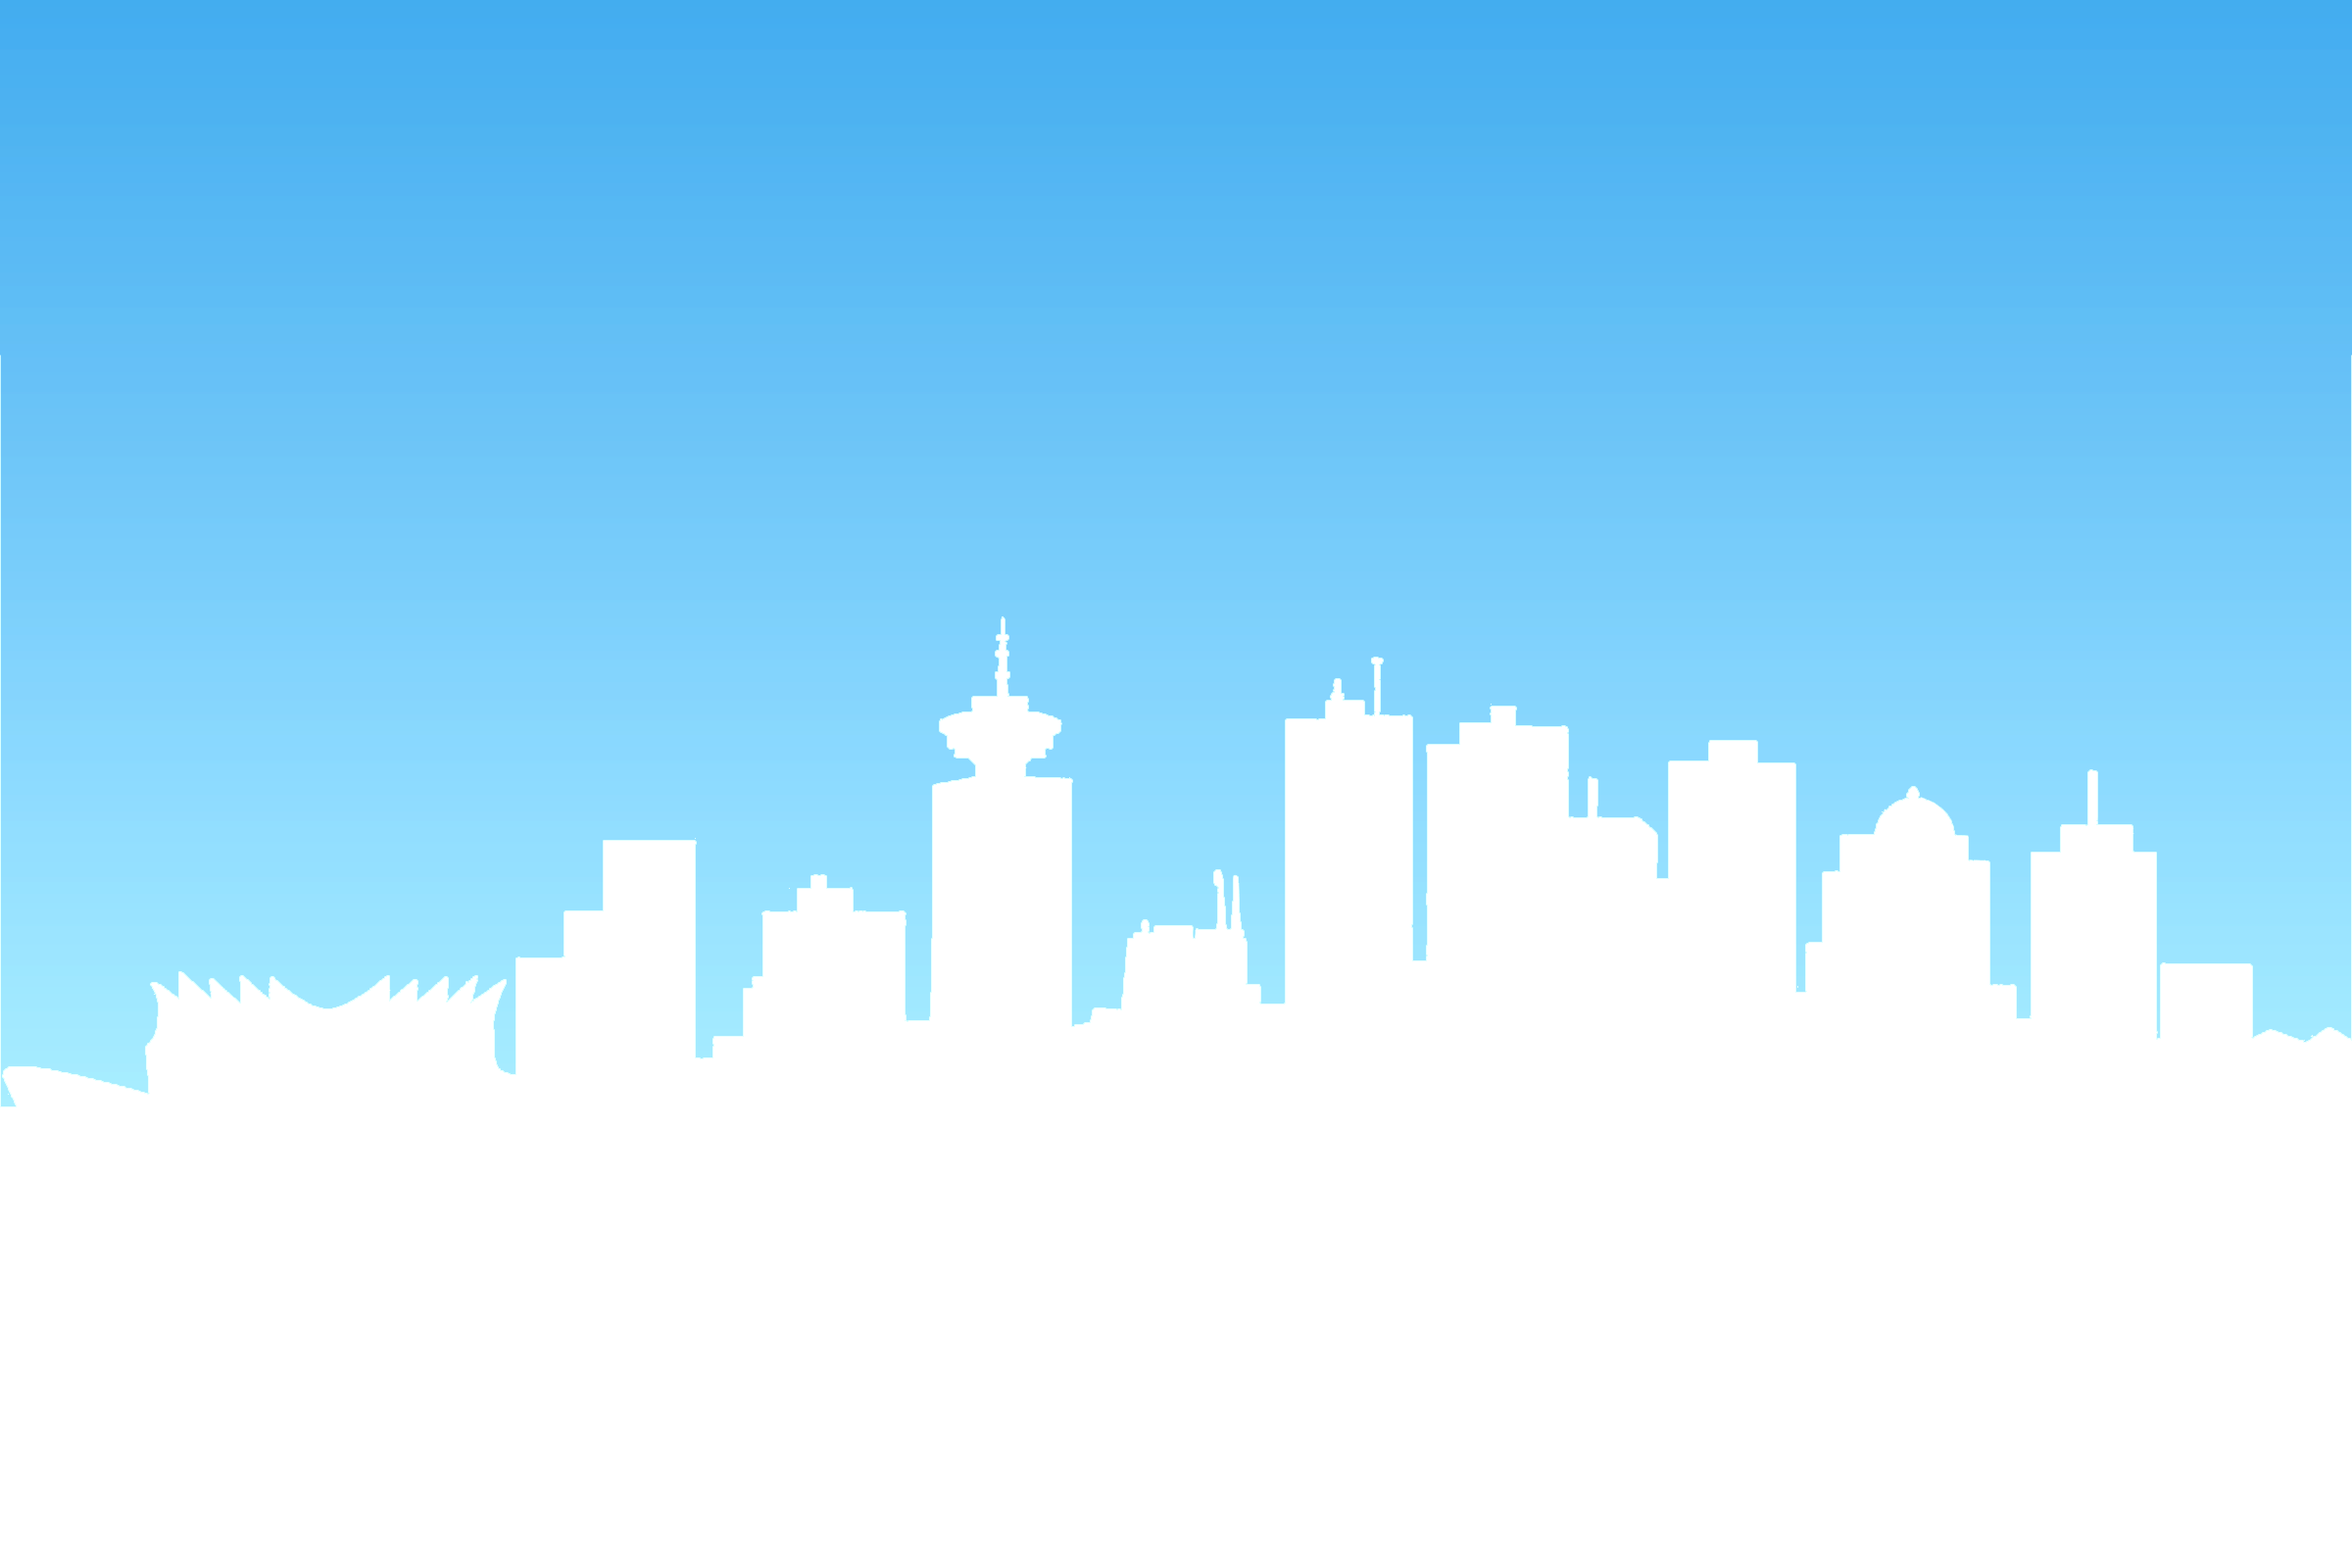
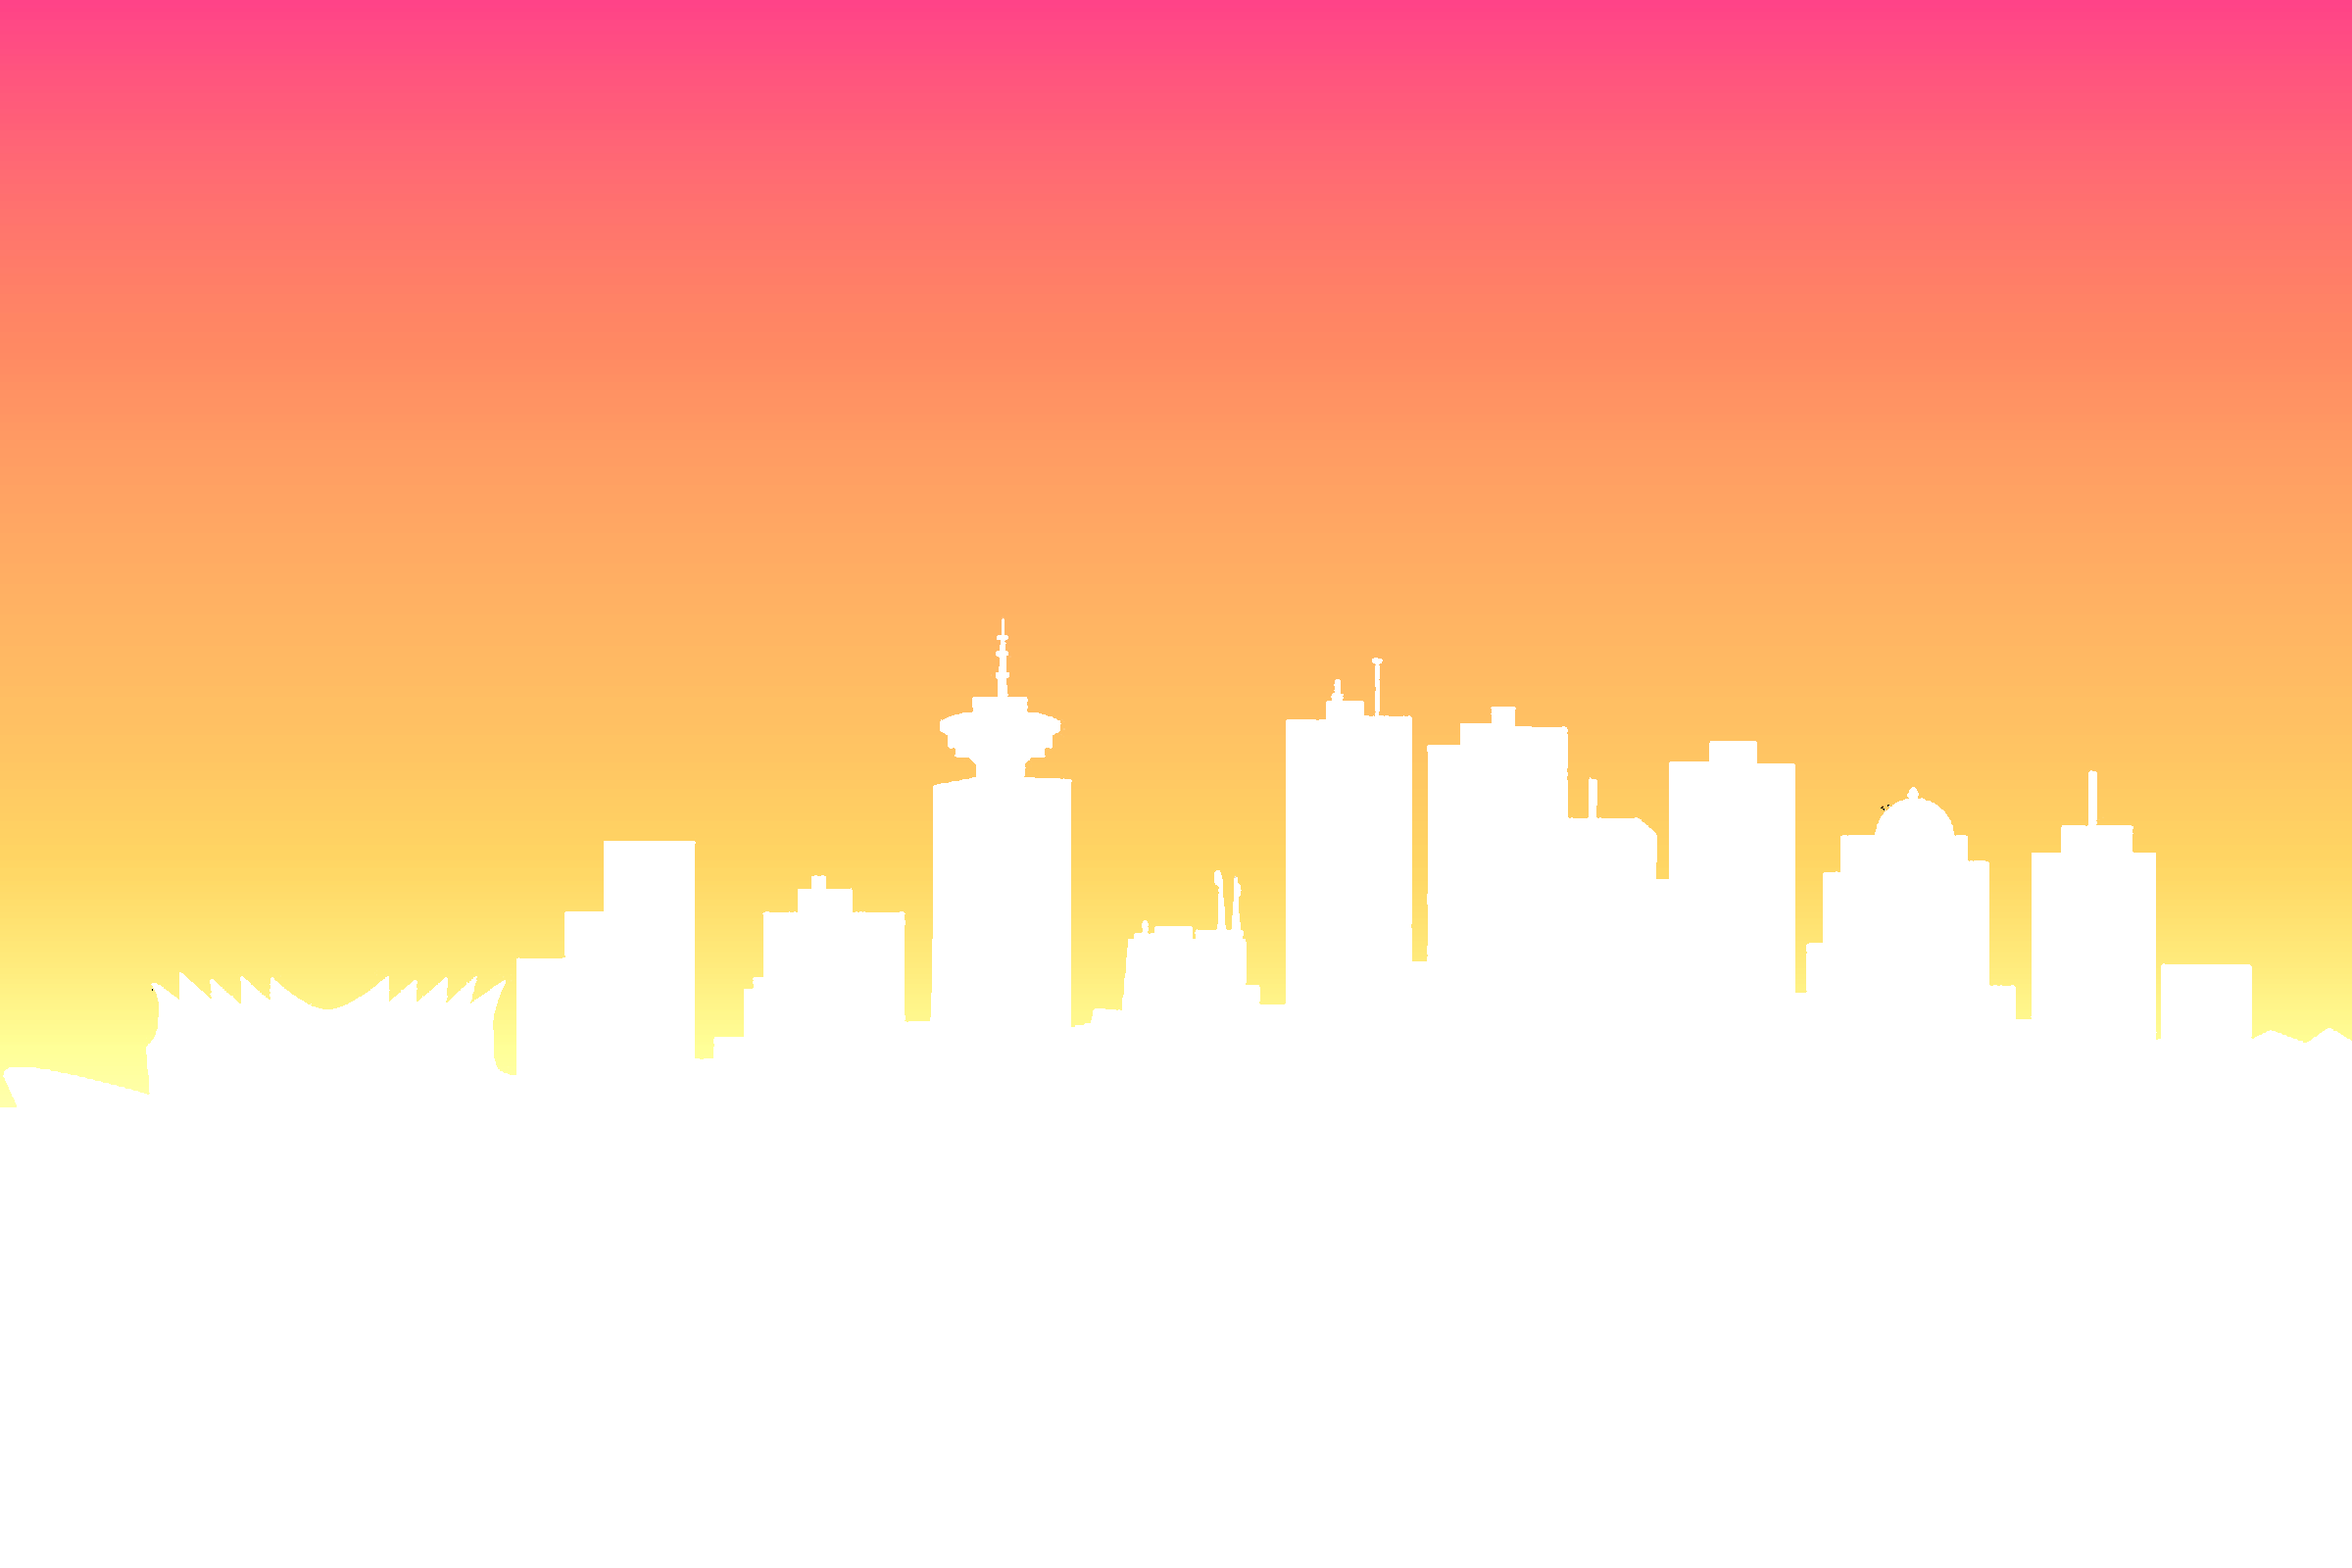
Updated to SVG home page

diff --git a/style.css b/style.css
@@ -408,7 +408,7 @@ input:-webkit-autofill:focus {
 
 .client-area,
 .header-area {
-    background: #0e2946 url('images/vhhacksbackground.png') no-repeat scroll center bottom / cover;
+    background: #0e2946 url('images/landingpage skyline.svg') no-repeat scroll center bottom / cover;
     z-index:11;
 }
 
